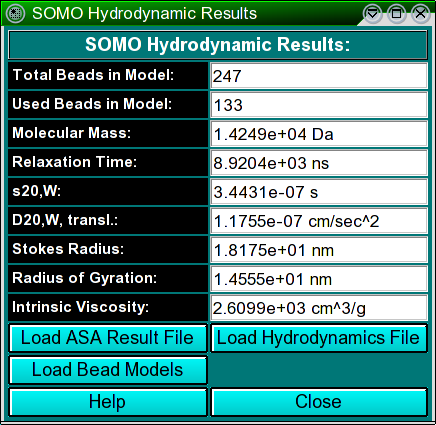
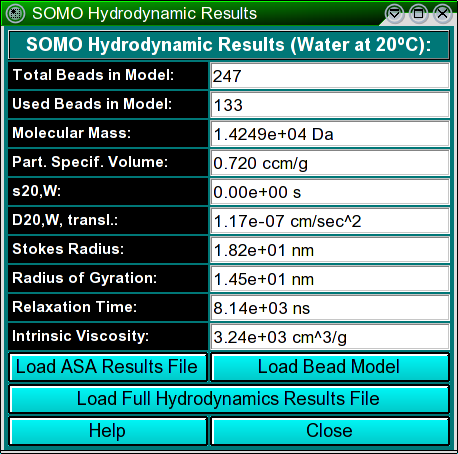
further gui changes

diff --git a/develop/src/us_hydrodyn_overlap_reduction.cpp b/develop/src/us_hydrodyn_overlap_reduction.cpp
@@ -53,10 +53,10 @@ void US_Hydrodyn_OR::setupGUI()
 	cnt_fuse->setPalette( QPalette(USglobal->global_colors.cg_normal, USglobal->global_colors.cg_normal, USglobal->global_colors.cg_normal));
 	connect(cnt_fuse, SIGNAL(valueChanged(double)), SLOT(update_fuse(double)));
 
-	lbl_steps = new QLabel(tr(" Overlap Reduction Step Size (in %): "), this);
+	lbl_steps = new QLabel(tr(" Overlap Reduction\n Step Size (in %): "), this);
 	Q_CHECK_PTR(lbl_steps);
 	lbl_steps->setAlignment(AlignLeft|AlignVCenter);
-	lbl_steps->setMinimumHeight(minHeight1);
+	lbl_steps->setMinimumHeight(minHeight1+20);
 	lbl_steps->setPalette( QPalette(USglobal->global_colors.cg_label, USglobal->global_colors.cg_label, USglobal->global_colors.cg_label));
 	lbl_steps->setFont(QFont( USglobal->config_list.fontFamily, USglobal->config_list.fontSize-1, QFont::Bold));
 

diff --git a/develop/src/us_hydrodyn.cpp b/develop/src/us_hydrodyn.cpp
@@ -49,6 +49,7 @@ US_Hydrodyn::US_Hydrodyn(QWidget *p, const char *name) : QFrame(p, name)
 	results.viscosity = 0.0;
 	results.rs = 0.0;
 	results.rg = 0.0;
+	results.vbar = 0.72;
 	results.theta = 0.0;
 	rasmol = new QProcess(this);
 }
@@ -3823,6 +3824,7 @@ void US_Hydrodyn::show_misc()
 
 void US_Hydrodyn::show_hydro()
 {
+	results.vbar = misc.vbar;
 	if (hydro_widget)
 	{
 		if (hydro_window->isVisible())

diff --git a/develop/include/us_hydrodyn_results.h b/develop/include/us_hydrodyn_results.h
@@ -33,6 +33,7 @@ struct hydro_results
 	double rs;
 	double rg;
 	double theta;
+	double vbar;
 };
 
 class US_EXTERN US_Hydrodyn_Results : public QFrame
@@ -70,6 +71,8 @@ class US_EXTERN US_Hydrodyn_Results : public QFrame
 		QLineEdit *le_rg;
 		QLabel *lbl_theta;
 		QLineEdit *le_theta;
+		QLabel *lbl_vbar;
+		QLineEdit *le_vbar;
 
 		QPushButton *pb_help;
 		QPushButton *pb_cancel;
